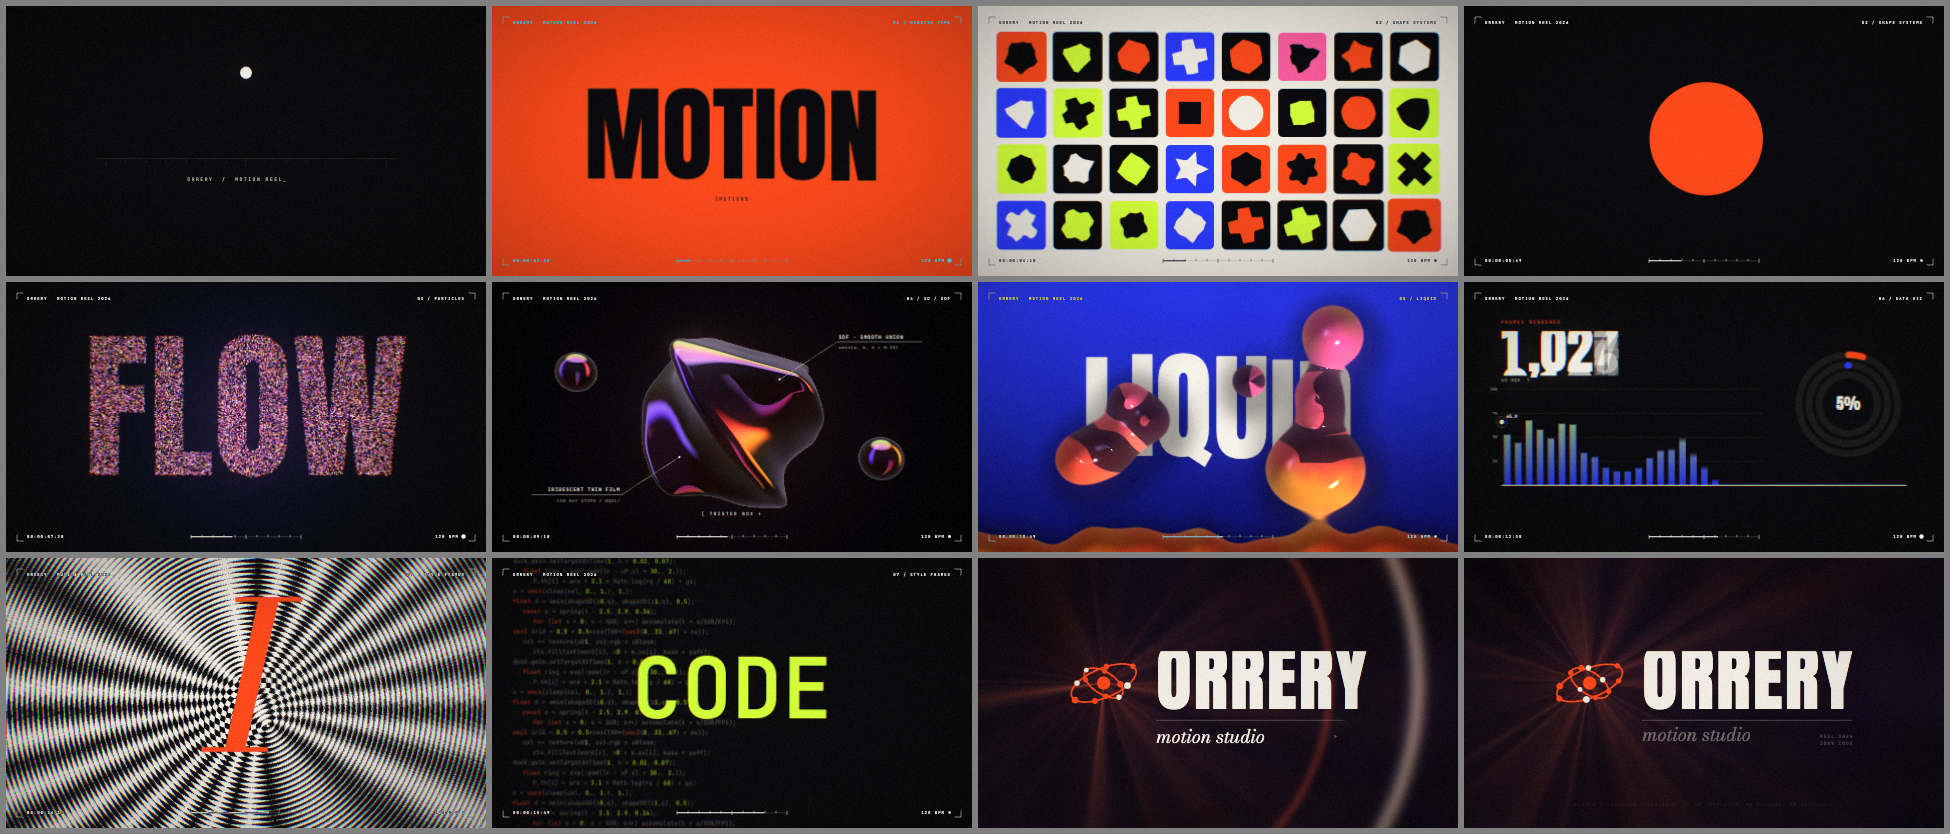
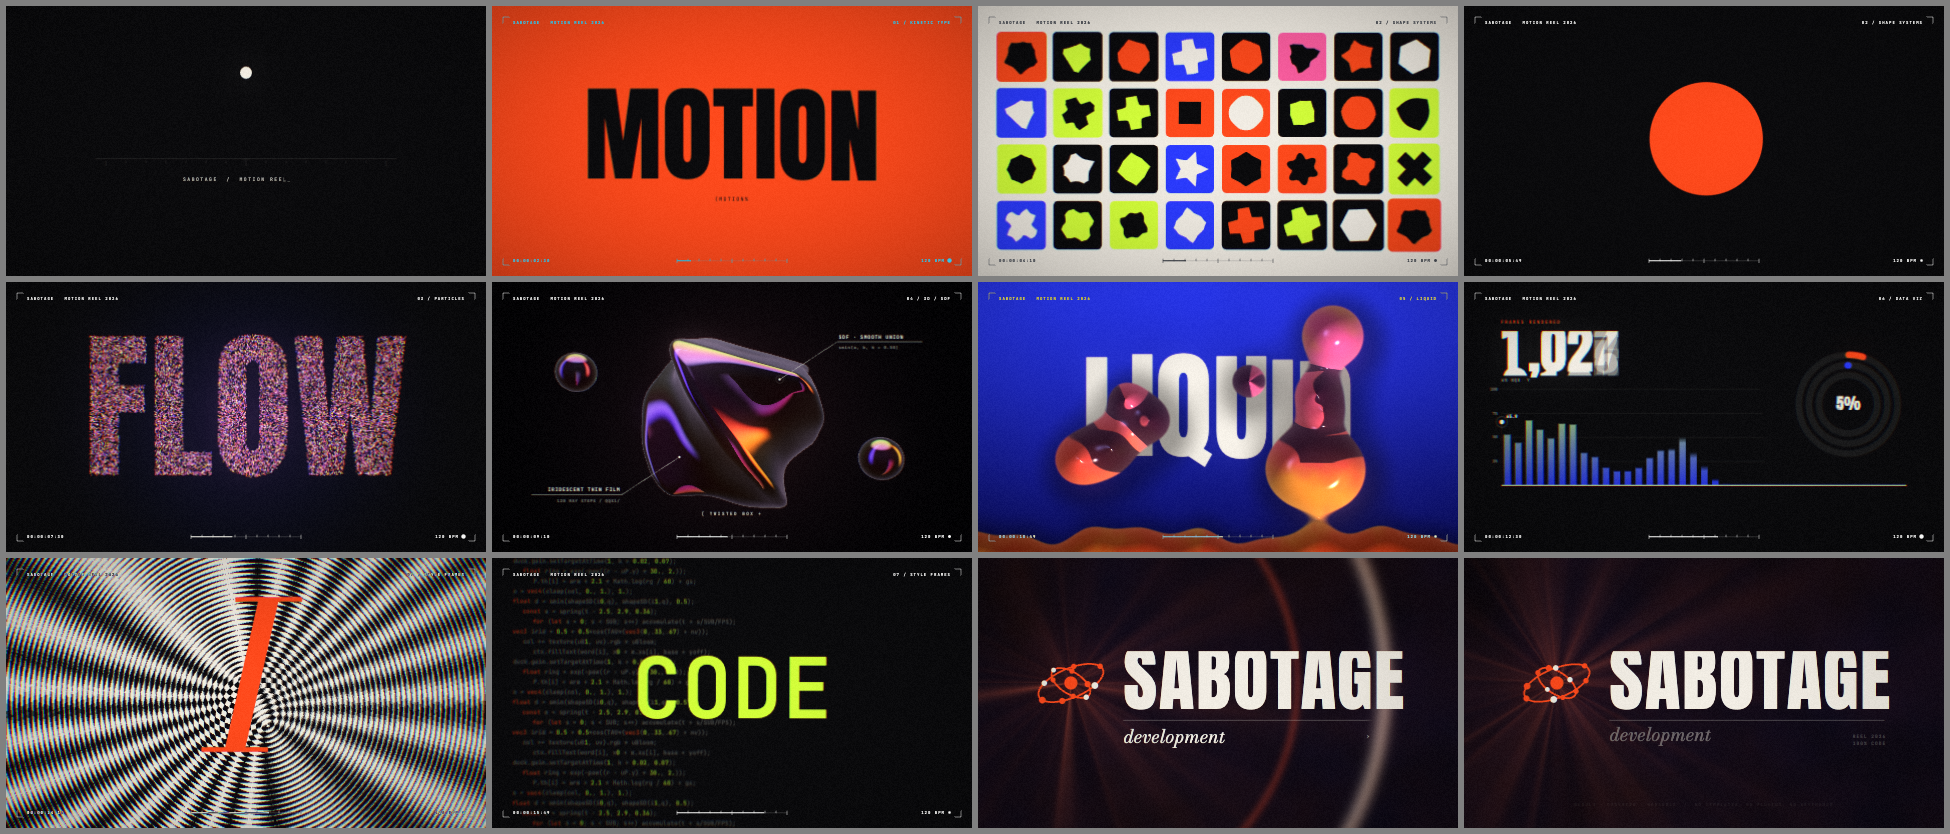
P4: the showreel ends on sabotage development
- The showreel's end card, its opening slate and its corner label now read SABOTAGE, with "development" under
  the wordmark, in place of the made-up studio. The orrery mark stays; it was drawn for this reel.
- board.js, both READMEs and PLAN section 12 say so; contact.png and board.png are rendered again.
- check on the showreel: 0 FAIL, 1 WARN (the deliberate fade up from black), as before. Tests: 260 pass,
  1 skipped (the live ElevenLabs smoke).

Changed region(s): [[0.5231, 0.6547, 0.7385, 0.9976], [0.7692, 0.717, 0.9846, 0.9041]]

diff --git a/skills/sabotage-motion/examples/showreel/scene.js b/skills/sabotage-motion/examples/showreel/scene.js
@@ -1,6 +1,6 @@
 // SHOWREEL: 20 s of what the engine can draw, 16:9 at 60 fps, cut to a 120 BPM grid (the scene contract is in the
-// template's scene.js header). Ported from the reel the engine was first built for; the studio it ends on, ORRERY,
-// and its mark are fictional. Every frame is a pure function of t; the music in audio.js is scheduled from TL.
+// template's scene.js header). Ported from the reel the engine was first built for. It ends on the end card of
+// sabotage development, the studio behind this repo; its orrery mark was drawn for this reel. Every frame is a pure function of t; the music in audio.js is scheduled from TL.
 //
 //   0-2   the dot           a dot pops, squashes, jumps, lands; three shapes burst out and stretch into bands
 //   2-4   kinetic type      MOTION rises, an E drops in (EMOTION), the frame inverts; twelve slices whip out
@@ -19,7 +19,7 @@ import {
 
 export const CFG = { W: 1920, H: 1080, FPS: 60, DUR: boardDur(), FONTS: ['COND', 'DIDONE', 'GEO', 'DISPLAY', 'MONO'] };
 const W = CFG.W, H = CFG.H;
-const WORDMARK = 'ORRERY';
+const WORDMARK = 'SABOTAGE';
 
 // The palette.
 const C = {
@@ -143,7 +143,7 @@ function sIntro(t) {
     }
   }
   // caption typing
-  const cap = 'ORRERY  /  MOTION REEL 2026';
+  const cap = 'SABOTAGE  /  MOTION REEL 2026';
   const n = Math.floor(prog(t, 0.3, 0.95) * cap.length);
   const ca = 1 - prog(t, 1.3, 1.5);
   if (n > 0 && ca > 0) {
@@ -866,7 +866,7 @@ function montage(t, cfg) {
 }
 
 // ============================================================ 08 MARK + END CARD (16-20 s)
-// The studio's mark (the studio is fictional): an orrery. A core, two tilted orbits that draw themselves on, and
+// The studio's mark, drawn for this reel: an orrery. A core, two tilted orbits that draw themselves on, and
 // twelve planets that pop onto them one by one, on the times audio.js plucks (TL.marks), and keep orbiting.
 const ORBITS = [{ r: 178, tilt: -0.42, sq: 0.42, dir: 1, speed: 0.55 }, { r: 112, tilt: 0.55, sq: 0.5, dir: -1, speed: 0.9 }];
 const PLANETS = Array.from({ length: 12 }, (_, k) => ({ orbit: k % 2, phase: (k / 12) * TAU + (hash(k * 5.3) - 0.5) * 0.3, size: 11 + 8 * hash(k * 3.1 + 2) }));
@@ -973,7 +973,7 @@ function sClimax(t, cfg) {
     c.save();
     c.beginPath(); c.rect(tx0 - 10, base + 50, 1000, 110); c.clip();
     c.font = F.didone(74); c.fillStyle = C.paper; c.globalAlpha = 1 - sOut;
-    c.fillText('motion studio', tx0, base + 128 + (1 - se) * 90);
+    c.fillText('development', tx0, base + 128 + (1 - se) * 90);
     c.restore();
     c.save();
     c.font = F.monoR(18); c.letterSpacing = '4px'; c.fillStyle = rgba(C.paper, 0.6 * (1 - sOut)); c.textAlign = 'right';
@@ -1016,9 +1016,9 @@ export function drawHud(t, fps) {
     c.beginPath(); c.moveTo(x, y + sy * L); c.lineTo(x, y); c.lineTo(x + sx * L, y); c.stroke();
   }
   c.font = F.mono(16); c.letterSpacing = '4px';
-  c.fillText('ORRERY', m + 40, m + 26);
+  c.fillText('SABOTAGE', m + 40, m + 26);
   c.font = F.monoR(16);
-  c.fillText('MOTION REEL 2026', m + 160, m + 26);
+  c.fillText('MOTION REEL 2026', m + 190, m + 26);
   // rolling section label
   let si = 0;
   for (let i = 0; i < SECTIONS.length; i++) if (t >= SECTIONS[i][0]) si = i;

diff --git a/skills/sabotage-motion/examples/showreel/board.js b/skills/sabotage-motion/examples/showreel/board.js
@@ -1,7 +1,7 @@
 // THE STORYBOARD of the showreel example: a 20 s, 16:9, 60 fps reel of what the engine can draw, cut to a 120 BPM
 // grid (a beat is 0.5 s, a bar 2 s). Silent beats only: the music is synthesized in audio.js from the scene's TL.
 // The reel is locked to that grid, so this board mirrors its sections rather than driving them: scene.js checks
-// the windows below against the grid at load and says which beat moved. Studio name and mark are fictional.
+// the windows below against the grid at load and says which beat moved. The mark was drawn for this reel.
 export const BOARD = {
   title: 'Showreel',
   target: 'youtube',
@@ -30,7 +30,7 @@ export const BOARD = {
     { id: 'montage', dur: 2, on: ['I MAKE PIXELS MOVE WITH NOTHING BUT CODE'],
       look: 'eight hard cuts, a quarter-second each, one word and one look per cut',
       sfx: 'a snare roll building, a glitch blip per cut, a tape stop into silence', sfxHit: true },
-    { id: 'lockup', dur: 4, on: ['ORRERY', 'motion studio'],
+    { id: 'lockup', dur: 4, on: ['SABOTAGE', 'development'],
       look: 'impact; the orrery mark draws its orbits and its planets pop in; the wordmark rises; a glint; it all pops out',
       sfx: 'a big impact, plucks as the planets land, bells, a last blip' },
   ],

diff --git a/README.md b/README.md
@@ -192,7 +192,7 @@ contact sheet and board sheet committed:
 
 | Example | What it shows | `check` |
 |---|---|---|
-| `showreel/` | 20 s, 16:9, 60 fps: kinetic type, shape morphs, 22,000 particles, a raymarched blob, liquid metaballs, a data panel, a montage and an end card, with a synthesized score. The studio it ends on is fictional. | 0 FAIL; 1 WARN kept on purpose (it fades up from black) |
+| `showreel/` | 20 s, 16:9, 60 fps: kinetic type, shape morphs, 22,000 particles, a raymarched blob, liquid metaballs, a data panel, a montage and an end card, with a synthesized score. It ends on the end card of sabotage development, the studio behind this repo. | 0 FAIL; 1 WARN kept on purpose (it fades up from black) |
 | `explainer-beat/` | 16.7 s, 9:16: a three-beat explainer with a voice take from an openly licensed TTS voice (Kokoro-82M, Apache-2.0, `VOICE.md`), cues, captions, a synthesized bed, the mix | 0 FAIL, 0 WARN on the source and the master |
 | `lower-third/` | 5 s, 16:9: a name strap rendered with alpha to ProRes 4444 and WebM, and composited over footage | 0 FAIL, 0 WARN (checked as an overlay) |
 

diff --git a/docs/PLAN.md b/docs/PLAN.md
@@ -569,8 +569,8 @@ Each is a full piece (template plus its own scene and board), runnable from its 
 
 - `showreel/` (20 s, 16:9, 60 fps): the private skill's showreel ported to the current harness. Before any frame
   of it is committed, its lockup is replaced: today it ends on a third-party product name as a wordmark, a
-  "Motion Designer" subtitle, the same name in the HUD, and that product's spark mark. The public reel ends on a
-  fictional name and mark. Its fonts are macOS system fonts today; they are replaced with open-licence faces, and
+  "Motion Designer" subtitle, the same name in the HUD, and that product's spark mark. The public reel ends on this
+  repo's own studio name, sabotage development, and a mark drawn for it (an orrery). Its fonts are macOS system fonts today; they are replaced with open-licence faces, and
   the visual drift is accepted.
 - No example contains a third-party name, logo or trademark.
 - `explainer-beat/` (about 15 s, 9:16): a made-up three-beat explainer built the section 3 way: board, voice take,

diff --git a/skills/sabotage-motion/examples/showreel/README.md b/skills/sabotage-motion/examples/showreel/README.md
@@ -2,8 +2,8 @@
 
 20 s of what the engine can draw, 16:9 at 60 fps, cut to a 120 BPM grid: kinetic type, a grid of morphing shapes,
 22,000 particles, a raymarched blob, liquid metaballs refracting a word, a data panel, an eight-cut montage, and an
-end card. The music is synthesized in `audio.js` from the scene's timeline. The studio it ends on, ORRERY, and its
-mark are fictional.
+end card. The music is synthesized in `audio.js` from the scene's timeline. It ends on the end card of sabotage
+development, the studio behind this repo; its orrery mark was drawn for this reel.
 
 Run from this folder (Node 22 or 24, Google Chrome, ffmpeg; run `npm install` first if no `node_modules` sits in a
 folder above this one). The full render is 1200 frames: about 5 minutes on an Apple-silicon Mac, far longer under
